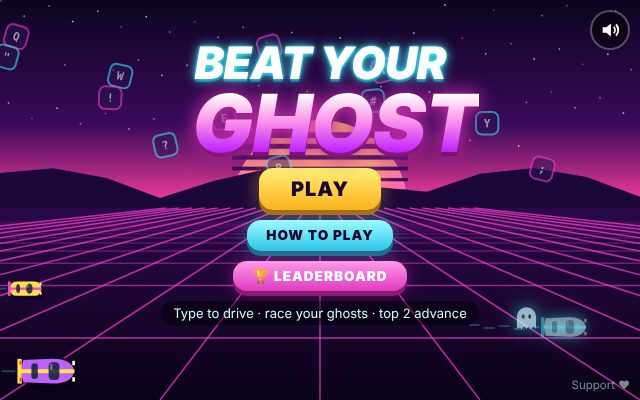
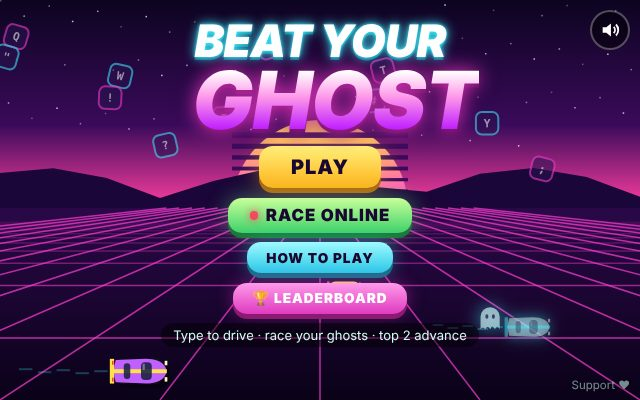
Beat Your Ghost: online typing races (2-4 players, room codes, quick match, smart bots)
Claude-Session: https://claude.ai/code/session_016cCYX7yXGWFyu7uXNBt4Wj

diff --git a/games/ghost-typer.html b/games/ghost-typer.html
@@ -2,6 +2,7 @@
 <html lang="en"><head><meta charset="utf-8">
 <script src="lib/gb.js"></script>
 <script src="lib/board.js"></script>
+<script src="lib/net.js"></script>
 <meta name="viewport" content="width=device-width,initial-scale=1,maximum-scale=1,user-scalable=no">
 <title>Beat Your Ghost</title>
 <style>
@@ -19,6 +20,9 @@ canvas#c{position:fixed;inset:0;width:100vw;height:100vh;display:block}
 .logo .a{display:block;color:#fff;text-shadow:0 0 .08em var(--cy),0 0 .25em var(--cy),0 .06em 0 #0a5a7a}
 .logo .b{display:block;background:linear-gradient(#fff 10%,#ff9aea 45%,#c020ff 90%);-webkit-background-clip:text;background-clip:text;color:transparent;filter:drop-shadow(0 0 .12em rgba(255,63,210,.8)) drop-shadow(0 .05em 0 #5a0a5a);margin-left:.4em}
 #title .btn{font-size:min(6vw,5vh,30px);padding:.45em 1.6em}
+#title #mpBtn{font-size:min(5vw,4.2vh,24px);padding:.45em 1.3em;background:linear-gradient(#c8ff9a,#3fd16a);box-shadow:0 5px 0 #1a7a3a,0 0 22px rgba(124,240,138,.45)}
+#title #mpBtn .live{display:inline-block;width:.5em;height:.5em;border-radius:50%;background:#ff3b5c;margin-right:.45em;vertical-align:.08em;box-shadow:0 0 8px #ff3b5c;animation:blink 1.2s infinite}
+@keyframes blink{50%{opacity:.25}}
 #title #howBtn,#title #boardBtn{font-size:min(4.2vw,3.4vh,17px);padding:.55em 1.4em}
 #support{position:fixed;right:calc(10px + env(safe-area-inset-right,0px));bottom:calc(8px + env(safe-area-inset-bottom,0px));font-size:11.5px;color:#cfe;opacity:.55;text-decoration:none;text-shadow:0 1px 2px rgba(0,0,0,.8);transition:opacity .2s}
 #support:hover{opacity:1}
@@ -73,11 +77,25 @@ canvas.hm,canvas.gr{width:100%;display:block;border-radius:12px;background:rgba(
 .carc canvas{width:100%;height:44px}
 #pause{position:fixed;inset:0;background:rgba(8,2,20,.75);display:flex;flex-direction:column;gap:14px;align-items:center;justify-content:center;z-index:40}
 #pause .t{font-size:46px;font-weight:900;font-style:italic}
+#mpLeave{position:fixed;top:10px;right:56px;height:40px;border-radius:20px;border:2px solid rgba(255,255,255,.3);background:rgba(0,0,0,.45);color:#fff;font:inherit;font-weight:900;font-size:13px;letter-spacing:1px;padding:0 14px;cursor:pointer;z-index:32}
+#fx{position:fixed;inset:0;width:100vw;height:100vh;pointer-events:none;z-index:36}
+#modal.mp{background:linear-gradient(rgba(8,2,20,0),rgba(8,2,20,.55) 30%,rgba(8,2,20,.8));align-items:flex-start;padding-top:calc(var(--th,200px) + 6px)}
+#modal.mp .card{border-color:#7cf08a;box-shadow:0 0 40px rgba(124,240,138,.25)}
+.gav{display:inline-grid;place-items:center;flex:none;border-radius:50%;line-height:1;box-shadow:inset 0 -3px 0 rgba(0,0,0,.2);font-family:"Apple Color Emoji","Segoe UI Emoji","Noto Color Emoji",sans-serif}
+.mprow{display:flex;align-items:center;gap:10px;padding:7px 10px;margin-top:6px;border-radius:12px;background:rgba(255,255,255,.06);font-weight:900;transition:background .3s}
+.mprow.me{background:rgba(255,225,74,.14);box-shadow:inset 0 0 0 2px rgba(255,225,74,.5)}
+.mprow .pl{width:46px;font-size:20px;font-style:italic;text-align:center;flex:none}
+.mprow .n{flex:1;min-width:0;overflow:hidden;text-overflow:ellipsis;white-space:nowrap}
+.mprow .s{color:var(--cy);text-align:right;min-width:64px}.mprow .s small,.mprow .a small{font-size:10px;opacity:.7}
+.mprow .a{color:#cfe;text-align:right;min-width:52px;font-size:14px}
+.mprow.dnf{opacity:.5}.mprow.run .s{color:#ffe14a}
+#mpStat{text-align:center;font-weight:900;margin-top:10px;color:#cfe;min-height:1.3em}
+@media (max-width:480px){.mprow{gap:6px;padding:6px 8px}.mprow .pl{width:34px;font-size:16px}.mprow .s{min-width:50px}.mprow .a{min-width:40px;font-size:12px}}
 #banner{position:fixed;left:50%;top:40%;transform:translate(-50%,-50%);font-size:min(12vw,70px);font-weight:900;font-style:italic;pointer-events:none;text-shadow:0 0 20px var(--mg),0 4px 0 #3a0a4a;opacity:0;transition:opacity .3s;white-space:nowrap;z-index:35}
 </style></head><body>
 <canvas id="c"></canvas>
 <input id="kb" autocomplete="off" autocapitalize="off" autocorrect="off" spellcheck="false">
-<div id="title"><div class="logo"><span class="a" style="font-size:.56em;margin-bottom:.08em">BEAT YOUR</span><span class="b">GHOST</span></div><button class="btn" id="playBtn">PLAY</button><button class="btn cy" id="howBtn">HOW TO PLAY</button><button class="btn mg" id="boardBtn">🏆 LEADERBOARD</button><div class="hint">Type to drive · race your ghosts · top 2 advance</div><a id="support" href="https://cash.app/$CharlieShocked" target="_blank" rel="noopener">Support ♥</a></div>
+<div id="title"><div class="logo"><span class="a" style="font-size:.56em;margin-bottom:.08em">BEAT YOUR</span><span class="b">GHOST</span></div><button class="btn" id="playBtn">PLAY</button><button class="btn" id="mpBtn"><span class="live"></span>RACE ONLINE</button><button class="btn cy" id="howBtn">HOW TO PLAY</button><button class="btn mg" id="boardBtn">🏆 LEADERBOARD</button><div class="hint">Type to drive · race your ghosts · top 2 advance</div><a id="support" href="https://cash.app/$CharlieShocked" target="_blank" rel="noopener">Support ♥</a></div>
 <div id="lobby" class="hidden"><div class="panel">
  <div class="lg"><button class="arrow" id="lPrev">‹</button><canvas id="badge" width="168" height="168"></canvas><div style="flex:1;min-width:0"><div class="nm" id="lName"></div><div class="w" id="lW"></div><div class="pipz" id="lPips"></div></div><button class="arrow" id="lNext">›</button></div>
  <div id="rivals"></div>
@@ -89,6 +107,8 @@ canvas.hm,canvas.gr{width:100%;display:block;border-radius:12px;background:rgba(
 <div id="modal" class="hidden"><div class="card"><h2><span id="mTitle"></span><button class="x" id="mClose">✕</button></h2><div class="body" id="mBody"></div></div></div>
 <div id="pause" class="hidden"><div class="t">PAUSED</div><button class="btn" id="resumeBtn">RESUME</button><button class="btn cy" id="quitBtn">QUIT RACE</button></div>
 <button id="pauseBtn" class="hidden" title="Pause"><svg viewBox="0 0 24 24"><path d="M7 5h3v14H7zM14 5h3v14h-3z" fill="#fff"/></svg></button>
+<button id="mpLeave" class="hidden" title="Leave race">✕ LEAVE</button>
+<canvas id="fx"></canvas>
 <button id="mute" title="Sound"><svg viewBox="0 0 24 24" id="muteIc"></svg></button>
 <script type="text/plain" id="passages">
 Captain Odalys Brenner logged 47 knots at 03:15; the gale, she wrote, "was merely clearing its throat." By dawn the Skerry Wren had lost two sails -- and one very opinionated parrot.
@@ -180,15 +200,15 @@ const RIVALS=['Pip Sprocket','Mabel Vroom','Dex Ledger','Tilda Quill','Ozzie Gea
 const CARS=[['#ffe14a','#ff3fd2',0],['#3ff0ff','#1a2a6a',1],['#ff5a3a','#fff',0],['#7cf08a','#1a4a2a',2],['#c060ff','#ffe14a',1],['#ff8a1a','#2a1a0a',3],['#ffffff','#ff3b5c',2],['#2a6aff','#3ff0ff',3],['#ff3fd2','#3ff0ff',1],['#1a1a2a','#ffe14a',3],['#f0f0ff','#9a6aff',2]];
 const RCOL=['#ff6a4a','#6affb0','#ffa8ff','#8ab8ff','#ffb84a','#ff4a8a'];
 // ---------- save ----------
-const DEF={league:0,top:0,wins:0,hist:[],keys:{},ghosts:{},last:null,best:0,car:0,races:0,seen:[]};
+const DEF={league:0,top:0,wins:0,hist:[],keys:{},ghosts:{},last:null,best:0,car:0,races:0,seen:[],mph:[]};
 let G=ST.get('save',null);const hadSave=!!G;G=Object.assign(JSON.parse(JSON.stringify(DEF)),G||{});
 function save(){if(G.hist.length>100)G.hist=G.hist.slice(-100);ST.set('save',G)}
 // ---------- canvas ----------
-const cv=$('c'),ctx=cv.getContext('2d');let W=0,H=0,DPR=1;
-function resize(){DPR=Math.min(2,window.devicePixelRatio||1);W=window.innerWidth;H=window.innerHeight;cv.width=Math.round(W*DPR);cv.height=Math.round(H*DPR);layout()}
+const cv=$('c'),ctx=cv.getContext('2d'),fxc=$('fx'),fctx=fxc.getContext('2d');let W=0,H=0,DPR=1;
+function resize(){DPR=Math.min(2,window.devicePixelRatio||1);W=window.innerWidth;H=window.innerHeight;cv.width=Math.round(W*DPR);cv.height=Math.round(H*DPR);fxc.width=cv.width;fxc.height=cv.height;layout()}
 window.addEventListener('resize',resize);
 function trackH(){return Math.round(clamp(H*.4,150,320))}
-function layout(){const th=trackH();$('live').style.top=(th+6)+'px';$('psg').style.top=(th+62)+'px';$('psg').style.maxHeight=Math.max(110,H-th-80)+'px'}
+function layout(){const th=trackH();document.documentElement.style.setProperty('--th',th+'px');$('live').style.top=(th+6)+'px';$('psg').style.top=(th+62)+'px';$('psg').style.maxHeight=Math.max(110,H-th-80)+'px'}
 // ---------- drawing ----------
 function drawCar(g,x,y,L,col,col2,shape,alpha,ghost){g.save();g.translate(x,y);g.globalAlpha=alpha==null?1:alpha;const Wd=L*.46;
  if(ghost){g.shadowColor='#3ff0ff';g.shadowBlur=14}
@@ -240,8 +260,8 @@ function renderPassage(){const box=$('psgIn');box.innerHTML='';const words=R.tex
  for(const w of words){const ws=document.createElement('span');ws.className='w';for(const ch of w){const s=document.createElement('span');s.textContent=ch;ws.appendChild(s);R.spans.push(s);idx++}box.appendChild(ws)}updatePassage()}
 function updatePassage(){const p=R.pos;for(let i=Math.max(0,p-3);i<Math.min(R.spans.length,p+2);i++){const s=R.spans[i];s.className=i<p?'d':i===p?('c'+(R.errFlash>0?' e':'')):''}
  const cur=R.spans[p];if(cur){const box=$('psg'),inn=$('psgIn');const top=cur.offsetTop;const lh=cur.offsetHeight||30;const vis=box.clientHeight-28;const want=Math.max(0,top-lh*1.1);const maxS=Math.max(0,inn.scrollHeight-vis);inn.style.transform='translateY('+(-Math.min(want,maxS))+'px)'}}
-function typeChar(c){if(state!=='race'||paused||!R||R.done||R.cd>0)return;const exp=R.text[R.pos];const k=R.keys[exp]||(R.keys[exp]=[0,0]);k[0]++;
- if(c===exp){R.pos++;SFX.key();R.errFlash=0;if(R.pos>=R.text.length){finish();return}}
+function typeChar(c){if((state!=='race'&&state!=='mp')||paused||!R||R.done||R.cd>0)return;const exp=R.text[R.pos];const k=R.keys[exp]||(R.keys[exp]=[0,0]);k[0]++;
+ if(c===exp){R.pos++;SFX.key();R.errFlash=0;if(R.pos>=R.text.length){if(R.mp)mpSelfDone();else finish();return}}
  else{k[1]++;R.errs++;R.errFlash=.35;SFX.err();const p=$('psg');p.classList.remove('shake');void p.offsetWidth;p.classList.add('shake')}
  updatePassage()}
 function wpmNow(){return R.t>0.5?Math.round(R.pos/5/(R.t/60)):0}
@@ -266,7 +286,7 @@ function finish(){R.done=true;R.samples.push(R.pos);const t=R.t,len=R.text.lengt
  boardNew=false;if(wpm>0){const thisRace=R;GBBoard.submit('ghost-typer',wpm).then(r=>{if(r&&r.best&&R===thisRace){boardNew=true;const el=document.getElementById('gbNew');if(el)el.style.display=''}})}
  save();SFX.fin(place);state='results';setTimeout(()=>showResults({wpm,acc,t,place,gdelta,newBest,promoted}),700)}
 // ---------- UI ----------
-function showOnly(id){['title','lobby','race'].forEach(k=>$(k).classList.toggle('hidden',k!==id));$('pauseBtn').classList.toggle('hidden',id!=='race')}
+function showOnly(id){['title','lobby','race'].forEach(k=>$(k).classList.toggle('hidden',k!==id));$('pauseBtn').classList.toggle('hidden',id!=='race'||state==='mp');$('mpLeave').classList.toggle('hidden',state!=='mp')}
 function goLobby(){audioInit();state='lobby';paused=false;$('pause').classList.add('hidden');$('modal').classList.add('hidden');showOnly('lobby');renderLobby();$('kb').blur()}
 function badge(cvs,l){const g=cvs.getContext('2d');const s=cvs.width;g.clearRect(0,0,s,s);g.save();g.translate(s/2,s/2);const r=s*.42;const cols=[['#cd7f32','#7a4a1a'],['#d8d8e8','#7a7a8a'],['#ffe14a','#b2820a'],['#3ff0ff','#1a6a8a'],['#ff3fd2','#7a1a6a']][Math.min(4,Math.floor(l/2.2))];
  g.shadowColor=cols[0];g.shadowBlur=s*.12;g.fillStyle=cols[1];g.beginPath();for(let i=0;i<8;i++){const a=i/8*TAU-Math.PI/8;g.lineTo(Math.cos(a)*r,Math.sin(a)*r)}g.closePath();g.fill();g.shadowBlur=0;
@@ -283,9 +303,10 @@ function renderLobby(){const l=viewLeague;badge($('badge'),l);$('lName').textCon
 $('lPrev').onclick=()=>{viewLeague=Math.max(0,viewLeague-1);SFX.click();renderLobby()};$('lNext').onclick=()=>{viewLeague=Math.min(G.top,viewLeague+1);SFX.click();renderLobby()};
 $('raceBtn').onclick=startRace;
 $('playBtn').onclick=()=>{viewLeague=G.top;goLobby();maybeTut()};if(hadSave)$('playBtn').textContent='CONTINUE';
+$('mpBtn').onclick=()=>openOnline();$('mpLeave').onclick=()=>{SFX.click();mpLeave()};
 $('howBtn').onclick=()=>{viewLeague=G.top;goLobby();maybeTut(true)};
-function openModal(t,el){$('mTitle').innerHTML=t;const b=$('mBody');b.innerHTML='';b.appendChild(el);$('modal').classList.remove('hidden')}
-$('mClose').onclick=()=>{SFX.click();goLobby()};
+function openModal(t,el){$('modal').classList.toggle('mp',state==='mp');$('mTitle').innerHTML=t;const b=$('mBody');b.innerHTML='';b.appendChild(el);$('modal').classList.remove('hidden')}
+$('mClose').onclick=()=>{SFX.click();if(state==='mp')mpLeave();else goLobby()};
 function chip(v,l){return'<div class="chip"><b>'+v+'</b><small>'+l+'</small></div>'}
 function showResults(r){const d=document.createElement('div');const pc=['#ffe14a','#d8d8e8','#cd7f32','#ff8aa0'][r.place-1];
  d.innerHTML='<div class="place" style="color:'+pc+';text-shadow:0 0 20px '+pc+'">'+r.place+(['st','nd','rd','th'][r.place-1])+'</div><div style="text-align:center;font-weight:900;margin-top:4px;color:'+(r.place<=2?'#7cf08a':'#ff8aa0')+'">'+(r.place<=2?(R.l===G.top||r.promoted?'QUALIFIED':'TOP 2'):'TOP 2 NEEDED')+'</div>'+
@@ -349,8 +370,10 @@ function drawSynthBand(th){const g=ctx.createLinearGradient(0,0,0,th);g.addColor
 function drawRaceBg(){const th=trackH();const g=ctx.createLinearGradient(0,th,0,H);g.addColorStop(0,'#1a0638');g.addColorStop(1,'#0a0218');ctx.fillStyle=g;ctx.fillRect(0,th,W,H-th);ctx.strokeStyle='rgba(255,63,210,.12)';ctx.lineWidth=1;for(let x=(T*10)%40;x<W;x+=40){ctx.beginPath();ctx.moveTo(x,th);ctx.lineTo(x,H);ctx.stroke()}}
 // ---------- input ----------
 const kb=$('kb');
-function refocus(){if(state==='race'&&!paused){try{kb.focus({preventScroll:true})}catch(e){kb.focus()}}}
+function refocus(){if((state==='race'||state==='mp')&&!paused){try{kb.focus({preventScroll:true})}catch(e){kb.focus()}}}
 window.addEventListener('keydown',e=>{audioInit();
+ if((window.GBNet&&GBNet.isOpen())||(window.GBBoard&&GBBoard.isOpen&&GBBoard.isOpen()))return;
+ if(state==='mp'){mpKey(e);return}
  if(e.key==='Escape'){if(state==='race'){togglePause();e.preventDefault();return}if(!$('modal').classList.contains('hidden')){goLobby();return}}
  if(state==='race'){if(e.ctrlKey||e.metaKey||e.altKey)return;if(e.key.length===1){e.preventDefault();typeChar(e.key)}else if(e.key==='Backspace'||e.key==='Tab'||e.key===' ')e.preventDefault();return}
  if(e.key==='Enter'||e.key===' '){e.preventDefault();if(state==='title'){viewLeague=G.top;goLobby();maybeTut()}else if(state==='lobby'&&$('modal').classList.contains('hidden'))startRace();else if(state==='results'&&resultsOpen){$('modal').classList.add('hidden');startRace()}}
@@ -360,11 +383,218 @@ $('psg').addEventListener('pointerdown',()=>refocus());cv.addEventListener('poin
 function togglePause(f){if(state!=='race')return;paused=f!==undefined?f:!paused;$('pause').classList.toggle('hidden',!paused);if(!paused)refocus()}
 $('pauseBtn').onclick=()=>togglePause(true);$('resumeBtn').onclick=()=>togglePause(false);$('quitBtn').onclick=()=>{R=null;goLobby()};
 document.addEventListener('visibilitychange',()=>{if(document.hidden)togglePause(true)});
+// ---------- online race (GBNet: 2-4 players, host runs the bots) ----------
+let M=null;const ORD=['st','nd','rd','th'],PLC=['#ffe14a','#d8d8e8','#e0a060','#ff8aa0'];
+const arr=x=>Array.isArray(x)?x.filter(Boolean):x&&typeof x==='object'?Object.keys(x).sort((a,b)=>a-b).map(k=>x[k]).filter(Boolean):[];
+const now=()=>GBNet.serverNow();
+const gauss=()=>{let u=0,v=0;while(!u)u=Math.random();while(!v)v=Math.random();return Math.sqrt(-2*Math.log(u))*Math.cos(TAU*v)};
+const esc=t=>String(t==null?'':t).replace(/[&<>"']/g,c=>'&#'+c.charCodeAt(0)+';');
+const faceOf=a=>(GBNet.FACE&&GBNet.FACE[a])||'🤖';
+function avHTML(r,px){return'<span class="gav" style="width:'+px+'px;height:'+px+'px;font-size:'+Math.round(px*.6)+'px;background:'+esc(r.c||'#49c5ff')+'">'+faceOf(r.a)+'</span>'}
+// recent typing speed (solo + online), weighted toward the latest races; n = how many races it is based on
+function mySkill(){const xs=G.hist.map(h=>({w:h.w,d:h.d||0})).concat((G.mph||[]).map(h=>({w:h.w,d:h.d||0}))).filter(h=>h.w>0).sort((a,b)=>a.d-b.d).slice(-8);
+ if(!xs.length)return{sk:36,n:0};let s=0,ws=0;xs.forEach((h,i)=>{const wt=1+i*.35;s+=h.w*wt;ws+=wt});return{sk:Math.round(clamp(s/ws,12,220)),n:xs.length}}
+// bot pace: anchored between the slowest and fastest human, some a bit faster, some a bit slower
+function botTargets(n){return{1:[[0,1.06]],2:[[0,1.07],[1,.955]],3:[[0,1.085],[.5,.995],[1,.935]]}[n]||[]}
+function humanRange(hs,rt){const ests=hs.map(h=>{const conf=Math.min(1,(h.cf||0)/5);let live=null;const st=M.room&&M.room.state[h.u];if(rt>6&&st&&st.r===M.round&&st.w>5)live=st.w;return live==null?h.sk:lerp(live,h.sk,conf)});return[Math.min(...ests),Math.max(...ests)]}
+// per-character difficulty for bots: capitals, digits and symbols are slower and more error-prone, long words drag, spaces roll
+function botPlan(text){const n=text.length,m=new Float32Array(n),pe=new Float32Array(n);let wl=0;
+ for(let i=0;i<n;i++){const c=text[i];let k=1,e=1;
+  if(c===' ')k=.8;else if(/[a-z]/.test(c))k=1;else if(/[A-Z]/.test(c)){k=1.6;e=1.7}else if(/[0-9]/.test(c)){k=1.5;e=1.8}else if(c==='.'||c===','){k=1.3;e=1.3}else if(/[;:'"\-]/.test(c)){k=1.85;e=2.4}else{k=2.2;e=2.9}
+  if(c!==' '){if(i===0||text[i-1]===' '){k*=1.18;let j=i;while(j<n&&text[j]!==' ')j++;wl=j-i}if(wl>7)k*=1+Math.min(.38,(wl-7)*.05)}
+  if(i>0&&text[i-1]===c&&/[a-z]/.test(c))k*=.85;m[i]=k;pe[i]=e}
+ return{m,pe}}
+function mkBot(rc,text,startPos,startErrs,rt){const plan=botPlan(text),n=text.length;
+ const b={u:rc.u,rc,plan,pos:startPos||0,errs:startErrs||0,next:Math.max(rt,0)+rnd(.25,.5),mood:1,moodEnd:0,scale:1,fix:0,typoAt:-9,doneT:0,form:1+gauss()*.025};
+ b.w0=0;return b}
+function calib(b,text,w){b.w0=w;b.q=clamp(.046-w*.00018,.012,.04);const n=text.length,P=b.plan;let sm=0,sq=0,sqm=0,sp=0;for(let i=0;i<n;i++){sm+=P.m[i];const q=b.q*P.pe[i];sq+=q;sqm+=q*P.m[i];if(text[i]===' ')sp++}
+ const Tt=12*n/w,fixed=sq*.31+sp*.05*.4;b.base=Math.max(.02,(Tt-fixed)/(sm+sqm))}
+function botTarget(b,rt){const hs=M.racers.filter(r=>!r.b),rg=humanRange(hs,rt);return clamp(lerp(rg[1],rg[0],b.rc.ai||0)*(b.rc.k||1)*b.form,10,230)}
+function botStep(b,rt){const text=R.text,n=text.length,P=b.plan;
+ const tw=botTarget(b,rt);if(Math.abs(tw-b.w0)>.4)calib(b,text,b.w0?lerp(b.w0,tw,.25):tw);
+ while(b.pos<n&&b.next<=rt){
+  if(b.next>=b.moodEnd){const r=Math.random();b.mood=r<.3?.86:r<.75?1:1.17;b.moodEnd=b.next+rnd(1.2,3.5)}
+  const sc=b.base*b.scale*b.mood,jit=()=>Math.exp(gauss()*.28-.0392),i=b.pos;
+  if(!b.fix&&Math.random()<b.q*P.pe[i]){b.errs++;b.fix=1;b.typoAt=b.next;b.next+=sc*P.m[i]*jit()+rnd(.18,.44);continue}
+  b.fix=0;b.pos++;if(b.pos>=n){b.doneT=b.next;break}
+  let d=sc*P.m[b.pos]*jit();if(text[b.pos-1]===' '&&Math.random()<.05)d+=rnd(.25,.55);b.next+=d}
+ return b.pos>=n}
+// ----- entering / leaving -----
+async function openOnline(){audioInit();SFX.click();try{kb.blur()}catch(e){}if(!window.GBNet)return;
+ const room=await GBNet.lobby('ghost-typer',{min:2,max:4,title:'Beat Your Ghost'});if(!room)return;mpEnter(room)}
+function mpEnter(room){if(M)mpStop();
+ M={room,code:room.code,local:room.local,round:0,phase:'wait',racers:null,fin:[],finSet:{},dnf:{},doneQ:{},queued:{},dnfSent:{},pend:[],ready:{},bots:{},disp:{},last:{},moved:{},rel:{},startSent:0,over:false,iReady:true,slow:0,flash:null,pf:0,resOpen:false,lastFinWall:0,myPlace:0,sentAt:0};
+ R=null;state='mp';paused=false;$('pause').classList.add('hidden');$('modal').classList.add('hidden');showOnly('race');layout();
+ $('psgIn').innerHTML='<span style="opacity:.6">Getting the racers on the grid…</span>';$('psgIn').style.transform='';
+ ['lvW','lvA','lvP'].forEach(k=>$(k).textContent='-');
+ M.unR=GBNet.onRoom(mpOnRoom);M.unE=GBNet.onEvent(mpOnEvent);M.iv=setInterval(mpTick,100);
+ GBNet.send('again',mySkill()).catch(()=>{})}
+function mpStop(){if(!M)return;clearInterval(M.iv);try{M.unR&&M.unR()}catch(e){}try{M.unE&&M.unE()}catch(e){}M=null}
+function mpLeave(msg){mpStop();try{GBNet.leave()}catch(e){}R=null;state='title';$('modal').classList.add('hidden');$('modal').classList.remove('mp');showOnly('title');try{kb.blur()}catch(e){}if(msg)banner(msg)}
+function mpOnRoom(s){if(!M)return;if(!s){mpLeave('ROOM CLOSED');return}M.room=s;
+ if(M.racers&&s.state)for(const rc of M.racers){const st=s.state[rc.u];if(st&&st.r===M.round&&typeof st.p==='number'){if(!(rc.u in M.last)||st.p>M.last[rc.u])M.moved[rc.u]=performance.now();M.last[rc.u]=Math.max(M.last[rc.u]||0,st.p)}}}
+function lanes(){if(M.racers)return M.racers;const r=M.room;return r?r.players.filter(p=>p.here).slice(0,4).map(p=>({u:p.uid,n:p.label,a:p.avatar,c:p.color,b:p.bot?1:0})):[]}
+// ----- events (everyone, same order) -----
+function mpOnEvent(e){if(!M)return;const d=e.data||{};
+ if(e.type==='again'){M.ready[e.from]={sk:d.sk||36,n:d.n||0,t:e.t||now()};return}
+ if(e.type==='start'){if(!(d.r>M.round))return;mpBegin(d,e.t);return}
+ if(d.r!==M.round||!M.racers)return;
+ if(e.type==='done'){if(!M.doneQ[e.from])M.doneQ[e.from]={u:e.from,w:d.w,a:d.a,t:d.t,at:performance.now()};return}
+ if(e.type==='finish'){if(M.finSet[d.u]||M.dnf[d.u])return;M.finSet[d.u]=d;M.fin.push(d);onFinish(d);return}
+ if(e.type==='dnf'){if(M.finSet[d.u]||M.dnf[d.u])return;M.dnf[d.u]={p:d.p||0};if(d.u===GBNet.myId()&&R&&!R.done){R.done=true;openMpResults()}return}}
+function mpBegin(d,t){const seed=d.seed|0,text=PS[((seed%PS.length)+PS.length)%PS.length];
+ M.round=d.r;M.racers=arr(d.racers);M.fin=[];M.finSet={};M.dnf={};M.doneQ={};M.queued={};M.dnfSent={};M.pend=[];M.ready={};M.bots={};M.last={};M.moved={};M.rel={};M.over=false;M.iReady=false;M.slow=0;M.flash=null;M.resOpen=false;M.myPlace=0;M.lastFinWall=0;
+ M.racers.forEach(rc=>{M.disp[rc.u]=0;M.last[rc.u]=0;M.moved[rc.u]=performance.now()});
+ let cd=((t||now())+3600-now())/1000;if(!(cd>.4&&cd<6))cd=3.4;
+ const inRace=M.racers.some(rc=>rc.u===GBNet.myId());
+ R={mp:true,text,pos:0,errs:0,t:-cd,cd,go:performance.now()+cd*1000,done:!inRace,keys:{},errFlash:0,lastBeep:4,spec:!inRace};
+ M.phase='race';$('modal').classList.add('hidden');renderPassage();layout();refocus();
+ if(!inRace){$('psgIn').innerHTML='<span style="opacity:.7">Race in progress… you are in the next one!</span>';openMpResults()}}
+function onFinish(d){const me=GBNet.myId(),place=M.fin.length,wall=performance.now();
+ const close=(wall-M.lastFinWall<700)||M.racers.some(rc=>rc.u!==d.u&&!M.finSet[rc.u]&&!M.dnf[rc.u]&&(M.disp[rc.u]||0)>=R.text.length-6);
+ M.lastFinWall=wall;
+ if(close&&R.done&&!M.slow){M.slow=1.7;M.pf=1;SFX.photo()}
+ if(d.u===me){M.myPlace=place;G.mph=(G.mph||[]);G.mph.push({w:d.w,a:d.a,p:place,n:M.racers.length,d:Date.now()});if(G.mph.length>60)G.mph=G.mph.slice(-60);save();
+  SFX.fin(place);if(place===1){const rr=M.round;setTimeout(()=>{if(M&&M.round===rr){confetti();banner('1ST PLACE!')}},M.slow?900:250)}
+  const rr=M.round;setTimeout(()=>{if(M&&M.round===rr)openMpResults()},M.slow?1700:700)}
+ else SFX.ding(place)}
+function mpSelfDone(){R.done=true;R.doneT=R.t;const len=R.text.length,w=Math.round(len/5/(R.t/60)),a=Math.round(1000*len/(len+R.errs))/10;
+ M.disp[GBNet.myId()]=len;for(const k in R.keys){const g=G.keys[k]||(G.keys[k]=[0,0]);g[0]+=R.keys[k][0];g[1]+=R.keys[k][1]}save();
+ if(!M.slow&&M.racers.some(rc=>rc.u!==GBNet.myId()&&!M.dnf[rc.u]&&(M.finSet[rc.u]?performance.now()-M.lastFinWall<700:(M.disp[rc.u]||0)>=len-6))){M.slow=1.7;M.pf=1;SFX.photo()}
+ GBNet.setMyState({r:M.round,p:len,w,e:R.errs});GBNet.send('done',{r:M.round,t:Math.round(R.t*1000)/1000,w,a}).catch(()=>{});
+ const rr=M.round;setTimeout(()=>{if(M&&M.round===rr&&!M.resOpen)openMpResults()},2600)}
+// ----- 10x a second: my state, host authority, bots -----
+function mpTick(){if(!M)return;const r=GBNet.room();if(!r)return;M.room=r;const me=GBNet.myId();
+ if(R&&R.mp&&!R.spec&&!R.done&&M.phase==='race')GBNet.setMyState({r:M.round,p:R.pos,w:R.t>.5?Math.round(R.pos/5/(R.t/60)):0,e:R.errs});
+ if(GBNet.isHost())hostTick(r);
+ if(M.phase==='race'&&!M.over&&M.racers.every(rc=>M.finSet[rc.u]||M.dnf[rc.u])){M.over=true;M.overAt=now();if(!M.resOpen)openMpResults()}
+ if(M.resOpen)refreshResults()}
+function hostTick(r){const me=GBNet.myId(),wall=performance.now();
+ if(M.phase!=='race'||M.over){if(M.startSent>M.round)return;
+  const hum=r.humans,rd=hum.filter(p=>M.ready[p.uid]);if(!rd.length)return;
+  const first=Math.min(...rd.map(p=>M.ready[p.uid].t)),wait=M.round===0?4000:15000;
+  if(rd.length===hum.length||now()-first>wait)hostStart(r);return}
+ if(!R||R.t<0)return;const rt=R.t,len=R.text.length;
+ for(const rc of M.racers){if(M.finSet[rc.u]||M.dnf[rc.u]||M.queued[rc.u])continue;
+  if(rc.b){let b=M.bots[rc.u];if(!b){const st=r.state[rc.u];const ok=st&&st.r===M.round;b=M.bots[rc.u]=mkBot(rc,R.text,ok?st.p:0,ok?st.e||0:0,rt)}
+   const fin=botStep(b,rt);const w=rt>.5?Math.round(b.pos/5/(rt/60)):0;GBNet.setMyState({r:M.round,p:b.pos,w,e:b.errs,x:rt-b.typoAt<.35?1:0},{as:rc.u});
+   if(fin){M.queued[rc.u]=1;M.pend.push({u:rc.u,t:b.doneT,w:Math.round(len/5/(b.doneT/60)),a:Math.round(1000*len/(len+b.errs))/10,at:wall})}continue}
+  const dq=M.doneQ[rc.u];if(dq){M.queued[rc.u]=1;M.pend.push(Object.assign({},dq,{at:wall}));continue}
+  const p=r.players.find(x=>x.uid===rc.u);const idle=rt>45&&wall-(M.moved[rc.u]||0)>45000;
+  if((!p||!p.here||idle||rt>300)&&!M.dnfSent[rc.u]){M.dnfSent[rc.u]=1;GBNet.send('dnf',{r:M.round,u:rc.u,p:Math.round(M.last[rc.u]||0)}).catch(()=>{})}}
+ M.pend.sort((a,b)=>a.t-b.t);while(M.pend.length&&M.pend[0].at+350<=wall){const f=M.pend.shift();GBNet.send('finish',{r:M.round,u:f.u,w:f.w,a:f.a,t:f.t}).catch(()=>{})}}
+async function hostStart(r){M.startSent=M.round+1;
+ try{if(r.players.filter(p=>p.here).length<2){await GBNet.fillWithBots();r=GBNet.room()}}catch(e){}
+ const ps=r.players.filter(p=>p.here).slice(0,4),hum=ps.filter(p=>!p.bot),bots=ps.filter(p=>p.bot),tg=botTargets(bots.length);
+ const sks=hum.map(p=>M.ready[p.uid]||(p.uid===GBNet.myId()?mySkill():{sk:36,n:0}));
+ const avg=sks.reduce((s,x)=>s+x.sk,0)/Math.max(1,sks.length),f=clamp((avg-25)/110,0,1),span=24,lo=Math.round(f*(PD.length-span));
+ let pi=PD[lo+Math.floor(Math.random()*span)].i;if(M.lastPi===pi)pi=PD[lo+((PD.findIndex(o=>o.i===pi)-lo+1+Math.floor(Math.random()*(span-1)))%span)].i;M.lastPi=pi;
+ let bi=0;const racers=ps.map(p=>{const o={u:p.uid,n:p.label,a:p.avatar,c:p.color,b:p.bot?1:0};
+  if(p.bot){const t=tg[bi++]||[.5,1];o.ai=t[0];o.k=Math.round(t[1]*(1+gauss()*.012)*1000)/1000}else{const s=sks[hum.indexOf(p)];o.sk=s.sk;o.cf=s.n}return o});
+ GBNet.send('start',{r:M.round+1,seed:pi+PS.length*Math.floor(Math.random()*999),racers}).catch(()=>{M.startSent=M.round})}
+// ----- every frame: countdown, smooth cars, overtakes, slow-mo -----
+function mpFrame(dt){const me=GBNet.myId();if(M.flash){M.flash.life-=dt;if(M.flash.life<=0)M.flash=null}
+ if(M.slow>0){M.slow-=dt;if(M.slow<=0){M.slow=0}}M.pf=Math.max(0,M.pf-dt*2.2);
+ if(!R||!R.mp)return;R.t=(performance.now()-R.go)/1000;R.cd=Math.max(0,-R.t);
+ if(R.cd>0||R.t<.15){const n=Math.ceil(R.cd);if(n<R.lastBeep&&n>=0){R.lastBeep=n;SFX.beep(n===0)}}
+ if(R.errFlash>0){R.errFlash-=dt;if(R.errFlash<=0)updatePassage()}
+ const len=R.text.length,st=(M.room&&M.room.state)||{},k=1-Math.pow(M.slow>0?.55:.0005,dt);
+ for(const rc of M.racers){let tgt;if(rc.u===me&&!R.spec)tgt=R.pos;else if(M.finSet[rc.u])tgt=len;else if(M.dnf[rc.u])tgt=M.dnf[rc.u].p;else{const s=st[rc.u];tgt=s&&s.r===M.round?s.p:(M.last[rc.u]||0)}
+  const cur=M.disp[rc.u]||0;M.disp[rc.u]=rc.u===me&&!M.slow?tgt:cur+(tgt-cur)*(M.slow>0?Math.min(1,dt*.9):k)}
+ if(!R.spec&&R.t>1.5&&!R.done){for(const rc of M.racers){if(rc.u===me||M.dnf[rc.u])continue;const diff=R.pos-M.disp[rc.u],was=M.rel[rc.u]||-1;
+   if(was<0&&diff>1.5){M.rel[rc.u]=1;passFx(true,rc)}else if(was>0&&diff<-1.5){M.rel[rc.u]=-1;passFx(false,rc)}else if(!M.rel[rc.u])M.rel[rc.u]=diff>0?1:-1}}
+ const pl=placeOf(me);$('lvW').textContent=R.spec?'-':(R.done&&R.doneT?Math.round(len/5/(R.doneT/60)):wpmNow());$('lvA').textContent=R.spec?'-':Math.round(100*R.pos/Math.max(1,R.pos+R.errs))+'%';
+ $('lvP').textContent=R.spec?'-':pl+ORD[pl-1];$('lvP').style.color=PLC[pl-1]}
+function placeOf(u){const o=standings();const i=o.findIndex(x=>x.u===u);return i<0?o.length:i+1}
+function standings(){const len=R?R.text.length:1;return M.racers.map(rc=>({u:rc.u,rc,f:M.finSet[rc.u],d:M.dnf[rc.u],p:M.disp[rc.u]||0})).sort((a,b)=>{
+ if(a.f&&b.f)return M.fin.indexOf(a.f)-M.fin.indexOf(b.f);if(a.f||b.f)return a.f?-1:1;if(!!a.d!==!!b.d)return a.d?1:-1;return b.p-a.p})}
+function passFx(up,rc){const c=carAt(GBNet.myId());if(up){M.flash={t:'PASSED!',sub:shortName(rc.n),life:1.1,col:'#7cf08a'};SFX.pass();if(c)burst(c.x,c.y,26,['#7cf08a','#ffe14a','#fff'],260,300,4)}
+ else{M.flash={t:'PASSED BY',sub:shortName(rc.n),life:.9,col:'#ff8aa0',small:1};SFX.passed()}}
+function shortName(n){n=String(n||'').replace(/^BOT · /,'');return n.length>12?n.slice(0,11)+'…':n}
+function mpKey(e){if(e.ctrlKey||e.metaKey||e.altKey)return;
+ if(M&&M.resOpen&&(e.key==='Enter')){e.preventDefault();mpRematch();return}
+ if(e.key==='Escape'){e.preventDefault();return}
+ if(R&&R.mp&&!R.done){if(e.key.length===1){e.preventDefault();typeChar(e.key)}else if(e.key==='Backspace'||e.key==='Tab'||e.key===' ')e.preventDefault()}}
+// ----- results -----
+function openMpResults(){if(!M||M.resOpen)return;M.resOpen=true;const d=document.createElement('div');
+ d.innerHTML='<div class="place" id="mpPlace" style="font-size:40px"></div><div id="mpRows"></div><div id="mpStat"></div>';
+ const row=document.createElement('div');row.className='row';const b1=document.createElement('button');b1.className='btn cy';b1.textContent='LEAVE';b1.onclick=()=>{SFX.click();mpLeave()};
+ const b2=document.createElement('button');b2.className='btn';b2.id='mpRe';b2.textContent='REMATCH';b2.onclick=mpRematch;row.appendChild(b1);row.appendChild(b2);d.appendChild(row);
+ openModal(M.local?'Race vs bots':'Online race',d);$('modal').classList.add('mp');try{kb.blur()}catch(e){}refreshResults()}
+function mpRematch(){if(!M||!M.over||M.iReady)return;SFX.click();M.iReady=true;GBNet.send('again',mySkill()).catch(()=>{M.iReady=false});refreshResults()}
+function refreshResults(){if(!M||!$('mpRows'))return;const me=GBNet.myId(),len=R?R.text.length:1,o=standings();
+ const mine=o.find(x=>x.u===me);const pe=$('mpPlace');
+ if(R&&R.spec){pe.textContent='WATCHING';pe.style.color='#cfe';pe.style.fontSize='28px'}
+ else if(mine&&mine.f){const p=M.fin.indexOf(mine.f)+1;pe.textContent=p+ORD[Math.min(3,p-1)];pe.style.color=PLC[p-1];pe.style.textShadow='0 0 20px '+PLC[p-1]}
+ else if(mine&&mine.d){pe.textContent='DNF';pe.style.color='#ff8aa0'}else{pe.textContent='…';pe.style.color='#fff'}
+ let h='';o.forEach((x,i)=>{const st=M.room&&M.room.state[x.u],rc=x.rc;const live=st&&st.r===M.round?st.w:0;
+  const cls='mprow'+(x.u===me?' me':'')+(x.d?' dnf':'')+(!x.f&&!x.d?' run':'');
+  const plc=x.f?'<b class="pl" style="color:'+PLC[i]+'">'+(i+1)+ORD[Math.min(3,i)]+'</b>':x.d?'<b class="pl" style="color:#ff8aa0">DNF</b>':'<b class="pl" style="color:#cfe;font-size:13px">'+Math.round(100*x.p/len)+'%</b>';
+  h+='<div class="'+cls+'">'+plc+avHTML(rc,30)+'<span class="n">'+esc(x.u===me?rc.n+' (you)':rc.n)+'</span>'+
+   (x.f?'<span class="s">'+x.f.w+' <small>WPM</small></span><span class="a">'+x.f.a+'<small>%</small></span>':x.d?'<span class="s">-</span><span class="a">-</span>':'<span class="s">'+(live||0)+' <small>WPM</small></span><span class="a">…</span>')+'</div>'});
+ if(h!==M.lastRows){$('mpRows').innerHTML=h;M.lastRows=h}
+ const hum=(M.room?M.room.humans:[]),rd=hum.filter(p=>M.ready[p.uid]).length,b=$('mpRe');let s='';
+ if(!M.over)s='Racers still typing…';else if(M.startSent>M.round)s='Starting…';
+ else{const ts=hum.filter(p=>M.ready[p.uid]).map(p=>M.ready[p.uid].t);s=hum.length>1?('Ready '+rd+'/'+hum.length):'';if(ts.length&&hum.length>1){const left=Math.max(0,Math.ceil((Math.min(...ts)+15000-now())/1000));s+=' · next race in '+left+'s'}}
+ $('mpStat').textContent=s;
+ if(b){b.disabled=!M.over||M.iReady;b.textContent=M.iReady&&M.over?'READY ✔':'REMATCH'}}
+// ----- drawing -----
+function mpGeo(){const th=trackH(),ls=lanes(),n=Math.max(2,ls.length),top=34,laneH=(th-top-8)/n,x0=clamp(laneH*.85,24,64)+8,x1=W-40,L=clamp(laneH*1.25,28,84);return{th,ls,n,top,laneH,x0,x1,L}}
+function carAt(u){if(!M||!R)return null;const g=mpGeo(),i=g.ls.findIndex(r=>r.u===u);if(i<0)return null;const len=R.text.length;return{x:g.x0+(g.x1-g.x0-g.L*.4)*clamp((M.disp[u]||0)/len,0,1),y:g.top+g.laneH*(i+.5)}}
+function drawMp(){const g=mpGeo(),{th,ls,n,top,laneH,x0,x1,L}=g,me=GBNet.myId(),len=R?R.text.length:1,st=(M.room&&M.room.state)||{};
+ drawSynthBand(th);ctx.save();
+ if(M.slow>0){const z=1+.7*Math.sin(Math.min(1,(1.7-M.slow)/.35)*Math.PI/2)*Math.min(1,M.slow/.3);const cx=x1,cy=top+laneH*n/2;ctx.beginPath();ctx.rect(0,top-4,W,laneH*n+8);ctx.clip();ctx.translate(cx,cy);ctx.scale(z,z);ctx.translate(-cx,-cy)}
+ ctx.fillStyle='rgba(10,4,24,.8)';ctx.fillRect(-W,top-4,W*3,laneH*n+8);
+ const mi=ls.findIndex(r=>r.u===me);if(mi>=0){ctx.fillStyle='rgba(255,225,74,.07)';ctx.fillRect(-W,top+mi*laneH,W*3,laneH)}
+ ctx.strokeStyle='rgba(255,63,210,.5)';ctx.lineWidth=2;ctx.setLineDash([18,14]);ctx.lineDashOffset=-((R?R.pos:0)*3+T*8);for(let i=1;i<n;i++){const y=top+i*laneH;ctx.beginPath();ctx.moveTo(-W,y);ctx.lineTo(W*2,y);ctx.stroke()}ctx.setLineDash([]);
+ ctx.strokeStyle='#7cf08a';ctx.lineWidth=3;ctx.shadowColor='#7cf08a';ctx.shadowBlur=10;ctx.beginPath();ctx.moveTo(-W,top-4);ctx.lineTo(W*2,top-4);ctx.moveTo(-W,top+laneH*n+4);ctx.lineTo(W*2,top+laneH*n+4);ctx.stroke();ctx.shadowBlur=0;
+ const cs=Math.max(5,laneH/5);for(let y=top,k=0;y<top+laneH*n;y+=cs,k++){for(let j=0;j<3;j++){ctx.fillStyle=(k+j)%2?'#fff':'#111';ctx.fillRect(x1+j*cs-cs,y,cs,Math.min(cs,top+laneH*n-y))}}
+ ctx.fillStyle='rgba(255,255,255,.15)';ctx.fillRect(x0,top,2,laneH*n);
+ ls.forEach((rc,i)=>{const y=top+laneH*(i+.5),p=M.disp[rc.u]||0,x=x0+(x1-x0-L*.4)*clamp(p/len,0,1),dnf=M.dnf[rc.u],f=M.finSet[rc.u],mine=rc.u===me;
+  const s=st[rc.u],live=mine&&R&&!R.spec?(R.done&&R.doneT?Math.round(len/5/(R.doneT/60)):wpmNow()):(f?f.w:(s&&s.r===M.round?s.w:0));
+  if(!dnf&&R&&R.t>0)trail(x,y,L,rc.c);
+  const bob=R&&R.t>0&&!f&&!dnf?Math.sin(T*18+i)*.8:0;
+  if(mine){ctx.save();ctx.shadowColor='#ffe14a';ctx.shadowBlur=18}
+  drawCar(ctx,x,y+bob,L,dnf?'#666':rc.c,'#1a0830',i%4,dnf?.5:1);if(mine)ctx.restore();
+  const ar=L*.22;ctx.save();ctx.globalAlpha=dnf?.5:1;ctx.fillStyle=rc.c;ctx.strokeStyle=mine?'#ffe14a':'#fff';ctx.lineWidth=2.5;ctx.beginPath();ctx.arc(x-L*.08,y+bob,ar,0,TAU);ctx.fill();ctx.stroke();
+  ctx.font=Math.round(ar*1.25)+'px "Apple Color Emoji","Segoe UI Emoji","Noto Color Emoji",sans-serif';ctx.textAlign='center';ctx.textBaseline='middle';ctx.fillText(faceOf(rc.a),x-L*.08,y+bob+ar*.08);ctx.restore();
+  if(s&&s.x&&!f&&!dnf){ctx.fillStyle='rgba(255,59,92,.85)';ctx.beginPath();ctx.arc(x+L*.55,y-L*.15,L*.09+Math.random()*2,0,TAU);ctx.fill()}
+  if(mine&&R&&R.errFlash>0){ctx.fillStyle='rgba(255,59,92,'+R.errFlash+')';ctx.beginPath();ctx.arc(x+L*.5,y,L*.3,0,TAU);ctx.fill()}
+  const fs=clamp(laneH*.24,9,13);ctx.font='900 '+fs+'px "Trebuchet MS",sans-serif';ctx.textAlign='left';ctx.textBaseline='top';
+  const nm=mine?'YOU':(String(rc.n).length>18?String(rc.n).slice(0,17)+'…':rc.n),tag=dnf?'  DNF':f?'  '+(M.fin.indexOf(f)+1)+ORD[Math.min(3,M.fin.indexOf(f))]+' ✔':'';
+  ctx.fillStyle=mine?'#ffe14a':rc.c;ctx.globalAlpha=.95;ctx.fillText(nm+tag,6,y-laneH/2+3);const nw=ctx.measureText(nm+tag).width;ctx.globalAlpha=1;
+  if(R&&R.t>0&&!dnf){ctx.fillStyle='rgba(255,255,255,.8)';ctx.fillText('  '+live+' WPM',6+nw,y-laneH/2+3)}
+  if(dnf){ctx.save();ctx.translate(x,y);ctx.rotate(-.18);ctx.strokeStyle='#ff3b5c';ctx.lineWidth=3;ctx.font='900 '+Math.round(L*.32)+'px "Trebuchet MS",sans-serif';ctx.textAlign='center';ctx.textBaseline='middle';ctx.strokeText('DNF',0,0);ctx.fillStyle='#fff';ctx.fillText('DNF',0,0);ctx.restore()}
+  if(f){const pi=M.fin.indexOf(f);ctx.fillStyle=PLC[pi];ctx.beginPath();ctx.arc(x-L*.62,y,L*.17,0,TAU);ctx.fill();ctx.fillStyle='#1a0830';ctx.font='900 '+Math.round(L*.2)+'px "Trebuchet MS",sans-serif';ctx.textAlign='center';ctx.textBaseline='middle';ctx.fillText(pi+1,x-L*.62,y+1)}});
+ ctx.restore();
+ ctx.fillStyle='rgba(255,255,255,.7)';ctx.font='900 13px "Trebuchet MS",sans-serif';ctx.textAlign='left';ctx.textBaseline='middle';ctx.fillText((M.local?'VS BOTS':'ONLINE · '+M.code)+(R&&R.t>0?'   '+(R.done&&R.doneT?R.doneT:R.t).toFixed(1)+'s':''),12,16);
+ const mid=top+laneH*n*.5;
+ if(!R){ctx.fillStyle='rgba(0,0,0,.35)';ctx.fillRect(0,top-4,W,laneH*n+8);ctx.font='900 '+Math.round(clamp(th*.14,18,40))+'px "Trebuchet MS",sans-serif';ctx.textAlign='center';ctx.fillStyle='#fff';ctx.globalAlpha=.6+Math.sin(T*4)*.3;ctx.fillText('GET READY',W/2,mid);ctx.globalAlpha=1}
+ else if(R.cd>0){const k=Math.ceil(R.cd),fr=R.cd%1;ctx.fillStyle='rgba(0,0,0,.4)';ctx.fillRect(0,top-4,W,laneH*n+8);ctx.save();ctx.translate(W/2,mid);ctx.scale(1+fr*.35,1+fr*.35);ctx.font='900 '+Math.round(th*.4)+'px "Trebuchet MS",sans-serif';ctx.textAlign='center';ctx.textBaseline='middle';ctx.fillStyle='#ffe14a';ctx.shadowColor='#ffe14a';ctx.shadowBlur=24;ctx.fillText(Math.min(3,k),0,0);ctx.restore()}
+ else if(R.t<.6){ctx.save();ctx.globalAlpha=1-R.t/.6;ctx.translate(W/2,mid);ctx.scale(1+R.t,1+R.t);ctx.font='900 '+Math.round(th*.4)+'px "Trebuchet MS",sans-serif';ctx.textAlign='center';ctx.textBaseline='middle';ctx.fillStyle='#7cf08a';ctx.shadowColor='#7cf08a';ctx.shadowBlur=24;ctx.fillText('GO!',0,0);ctx.restore()}
+ if(M.flash){const f=M.flash,a=clamp(f.life*2.5,0,1),sc=1+Math.max(0,f.life-(f.small?.7:.9))*3;ctx.save();ctx.globalAlpha=a;ctx.translate(W/2,mid-laneH*.2);ctx.scale(sc,sc);ctx.textAlign='center';ctx.textBaseline='middle';
+  ctx.font='italic 900 '+Math.round(clamp(th*(f.small?.13:.22),18,64))+'px "Trebuchet MS",sans-serif';ctx.lineWidth=6;ctx.strokeStyle='#1a0830';ctx.strokeText(f.t,0,0);ctx.fillStyle=f.col;ctx.shadowColor=f.col;ctx.shadowBlur=20;ctx.fillText(f.t,0,0);ctx.shadowBlur=0;
+  ctx.font='900 '+Math.round(clamp(th*.07,11,20))+'px "Trebuchet MS",sans-serif';ctx.lineWidth=4;ctx.strokeText(f.sub,0,clamp(th*.15,16,44));ctx.fillStyle='#fff';ctx.fillText(f.sub,0,clamp(th*.15,16,44));ctx.restore()}
+ if(M.slow>0){ctx.save();ctx.globalAlpha=Math.min(1,M.slow*2)*.9;ctx.textAlign='center';ctx.textBaseline='bottom';ctx.font='italic 900 '+Math.round(clamp(th*.1,16,34))+'px "Trebuchet MS",sans-serif';ctx.lineWidth=5;ctx.strokeStyle='#1a0830';ctx.strokeText('PHOTO FINISH!',W/2,top+laneH*n-4);ctx.fillStyle='#fff';ctx.fillText('PHOTO FINISH!',W/2,top+laneH*n-4);
+  ctx.fillStyle='rgba(0,0,0,.5)';const bar=laneH*.35;ctx.globalAlpha=Math.min(1,M.slow*3);ctx.fillRect(0,top-4,W,bar*.4);ctx.fillRect(0,top+laneH*n+4-bar*.4,W,bar*.4);ctx.restore()}
+ if(M.pf>0){ctx.fillStyle='rgba(255,255,255,'+M.pf*.8+')';ctx.fillRect(0,0,W,th)}}
+// ----- particles on the top layer (above the results card) -----
+let PT=[];
+function burst(x,y,n,cols,sp,grav,sz){for(let i=0;i<n;i++){const a=Math.random()*TAU,v=sp*(.3+Math.random());PT.push({x,y,vx:Math.cos(a)*v,vy:Math.sin(a)*v-sp*.4,g:grav,life:rnd(.6,1.1),ml:1,c:cols[i%cols.length],s:sz*rnd(.6,1.3),r:Math.random()*TAU,vr:rnd(-8,8),q:0})}}
+function confetti(){const cols=['#ffe14a','#ff3fd2','#3ff0ff','#7cf08a','#fff','#ff8a1a'];for(let i=0;i<150;i++){const left=i%2===0;PT.push({x:left?-10:W+10,y:H*rnd(.35,.8),vx:(left?1:-1)*rnd(220,620),vy:-rnd(380,820),g:520,life:rnd(2.2,3.4),ml:3.4,c:cols[i%cols.length],s:rnd(6,11),r:Math.random()*TAU,vr:rnd(-10,10),q:1})}SFX.cheer()}
+function fxDraw(dt){if(!PT.length){if(fxDraw.d){fctx.setTransform(1,0,0,1,0,0);fctx.clearRect(0,0,fxc.width,fxc.height);fxDraw.d=0}return}fxDraw.d=1;
+ fctx.setTransform(DPR,0,0,DPR,0,0);fctx.clearRect(0,0,W,H);
+ for(const p of PT){p.life-=dt;p.vy+=p.g*dt;if(p.q){p.vx*=Math.pow(.35,dt);p.vy=Math.min(p.vy,170)}p.x+=p.vx*dt;p.y+=p.vy*dt;p.r+=p.vr*dt;
+  fctx.save();fctx.globalAlpha=clamp(p.life*2,0,1);fctx.translate(p.x,p.y);fctx.rotate(p.r);fctx.fillStyle=p.c;if(p.q){fctx.scale(1,Math.cos(p.r*1.7));fctx.fillRect(-p.s/2,-p.s/4,p.s,p.s/2)}else{fctx.beginPath();fctx.arc(0,0,p.s/2,0,TAU);fctx.fill()}fctx.restore()}
+ PT=PT.filter(p=>p.life>0&&p.y<H+40)}
+Object.assign(SFX,{pass(){[660,880,1175].forEach((f,i)=>tone(f,.12,'square',.09,null,i*.05));noise(.25,.12,2500,1)},passed(){tone(330,.25,'sawtooth',.08,180)},
+ ding(p){tone(p===1?1046:784,.25,'triangle',.08)},photo(){noise(.08,.35,6000,.6);tone(1800,.06,'square',.06)},cheer(){for(let i=0;i<14;i++)noise(.05,.06,3000+Math.random()*4000,3);[784,988,1175,1568].forEach((f,i)=>tone(f,.3,'triangle',.12,null,.15+i*.08))}});
 // ---------- loop ----------
 let last=performance.now();
-function loop(now){const dt=Math.min(.05,(now-last)/1000);last=now;if(!paused){T+=dt;if(state==='race'&&R)updateRace(dt)}
+function loop(now){const dt=Math.min(.05,(now-last)/1000);last=now;if(!paused){T+=dt;if(state==='race'&&R)updateRace(dt);if(state==='mp'&&M)mpFrame(dt)}
  ctx.setTransform(DPR,0,0,DPR,0,0);
- if((state==='race'||state==='results')&&R){drawRaceBg();drawTrack()}else drawTitleScene();
+ if(state==='mp'&&M){drawRaceBg();drawMp()}else if((state==='race'||state==='results')&&R){drawRaceBg();drawTrack()}else drawTitleScene();
+ fxDraw(dt);
  requestAnimationFrame(loop)}
 const TUTCFG={pfx:'gamebop.'+SLUG+'.',acc:'#ffe14a',bg:'linear-gradient(#2e1660,#140a2c)',bd:'#ff3fd2',font:'"Trebuchet MS","Segoe UI",system-ui,sans-serif',place:()=>state==='race'?{x:W/2,y:H-62}:{x:W/2,y:56},frozen:()=>paused||(TUT.step>0&&state==='race'&&R&&R.cd>0),abort:()=>TUT.step>=1&&state!=='race',ok:()=>SFX.key()};
 // ---------- first-time tutorial (teach by doing) ----------

diff --git a/catalog.js b/catalog.js
@@ -529,7 +529,9 @@ window.GAMEBOP_GAMES = [
   "blurb": "Out-type your own ghost and rivals up to 140 WPM",
   "controls": "Keyboard",
   "added": "2026-11-08",
-  "keywords": "typing race racing keyboard wpm hard words ghost typer race your ghost",
+  "keywords": "typing race racing keyboard wpm hard words ghost typer race your ghost multiplayer online race friends 2 player",
+  "multi": true,
+  "players": 4,
   "file": "games/ghost-typer.html",
   "thumb": "thumbs/ghost-typer.jpg"
  },
